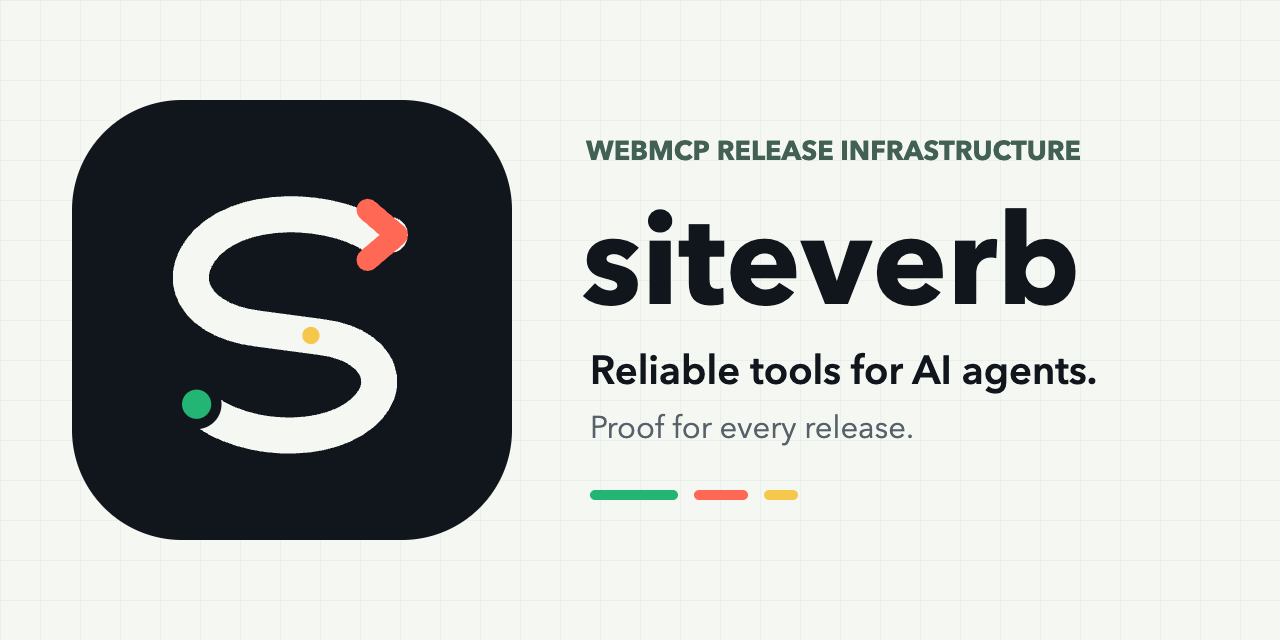
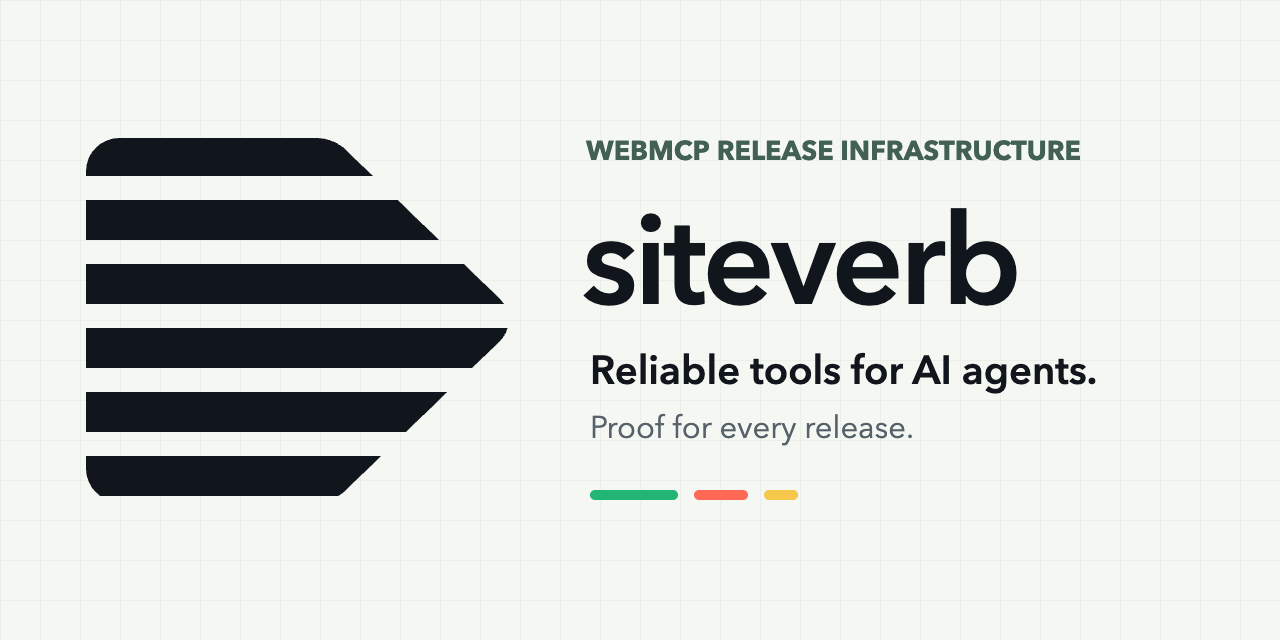
Introduce the minimal Siteverb action mark (#10)
## Summary

- Replace the initial-based mark with an original one-rule Forward
Stack.
- Use six parallel lanes for declared website tools and one shared
forward silhouette for action.
- Keep the primary mark monochrome and provide a separate paper-backed
favicon treatment.
- Update the canonical mark, favicon, wordmark, avatar, and social
preview.
- Make PNG rendering deterministic on the brand paper field.
- Add focused regression coverage for shared geometry, transparency,
favicon contrast, and PNG dimensions.

## Validation

- [x] `npm run check`
- [x] 15 test files and 116 tests passed
- [x] All six package checks and the release check passed
- [x] Repeated `npm run brand:render` produced byte-identical PNG hashes
- [x] `git diff --check`
- [x] SVG/XML and changed-file credential review passed

## Compatibility

No SDK, contract, browser, client, runtime, or wire behavior changes.

## Rollback

Revert this commit and rerun `npm run brand:render`. No package or data
migration is required.

Changed region(s): [[0.0312, 0.1562, 0.4062, 0.8438], [0.4688, 0.3125, 0.8438, 0.5]]

diff --git a/tests/brand.test.ts b/tests/brand.test.ts
@@ -1,0 +1,47 @@
+import { readFile } from 'node:fs/promises';
+import { describe, expect, it } from 'vitest';
+
+const ACTION_PATH =
+  'M75 74h197c12 0 24 5 32 14l151 146c13 12 13 32 0 44L304 424c-8 9-20 14-32 14H75c-18 0-33-15-33-33V107c0-18 15-33 33-33Z';
+const SVG_ASSETS = [
+  'brand/siteverb-mark.svg',
+  'brand/siteverb-favicon.svg',
+  'brand/siteverb-wordmark.svg',
+  'brand/siteverb-social-preview.svg',
+] as const;
+
+function pngDimensions(bytes: Buffer): readonly [number, number] {
+  expect(bytes.subarray(1, 4).toString('ascii')).toBe('PNG');
+  return [bytes.readUInt32BE(16), bytes.readUInt32BE(20)];
+}
+
+describe('brand assets', () => {
+  it('keeps one forward-lane geometry across every vector treatment', async () => {
+    for (const path of SVG_ASSETS) {
+      const source = await readFile(path, 'utf8');
+      expect(source).toContain(ACTION_PATH);
+      expect(source.match(/<rect y="(?:72|136|200|264|328|392)"/g)).toHaveLength(6);
+      expect(source).not.toContain('<mask');
+    }
+  });
+
+  it('keeps the primary mark transparent and the favicon contrast-safe', async () => {
+    const [mark, favicon] = await Promise.all([
+      readFile('brand/siteverb-mark.svg', 'utf8'),
+      readFile('brand/siteverb-favicon.svg', 'utf8'),
+    ]);
+
+    expect(mark).not.toContain('<rect width="512" height="512" rx="112"');
+    expect(favicon).toContain('<rect width="512" height="512" rx="112" fill="#f4f7f2"');
+  });
+
+  it('renders canonical PNGs at their documented dimensions', async () => {
+    const [avatar, socialPreview] = await Promise.all([
+      readFile('brand/siteverb-avatar.png'),
+      readFile('brand/siteverb-social-preview.png'),
+    ]);
+
+    expect(pngDimensions(avatar)).toEqual([512, 512]);
+    expect(pngDimensions(socialPreview)).toEqual([1280, 640]);
+  });
+});

diff --git a/BRAND.md b/BRAND.md
@@ -14,9 +14,14 @@ agent, or a security guarantee.
 
 ## Visual system
 
-The mark turns an `S` into a connected action path: a green source, an evidence checkpoint, and a
-coral invocation arrow. Its flat silhouette must remain legible as a small organization avatar and
-must not be redrawn as another product's initial or striped analytics glyph.
+The mark shows the product in one gesture: parallel horizontal lanes represent declared website
+tools, and their shared silhouette resolves into one forward action. It is not a letterform, badge,
+or miniature interface. Siteverb's deterministic proof belongs to the product promise and does not
+need a second symbol inside the mark.
+
+The primary glyph is one ink on a transparent or paper field. Supporting colors belong to product
+states and illustrations, not individual logo lanes. Preserve the forward clip and parallel-lane
+rhythm at every size; never redraw it as another product's ring or analytics glyph.
 
 | Token    | Hex       | Use                               |
 | -------- | --------- | --------------------------------- |
@@ -30,6 +35,7 @@ must not be redrawn as another product's initial or striped analytics glyph.
 Assets:
 
 - `brand/siteverb-mark.svg`: vector avatar source.
+- `brand/siteverb-favicon.svg`: contrast-safe favicon treatment.
 - `brand/siteverb-avatar.png`: 512 x 512 GitHub/npm avatar.
 - `brand/siteverb-wordmark.svg`: horizontal wordmark.
 - `brand/siteverb-social-preview.png`: 1280 x 640 GitHub social preview.
